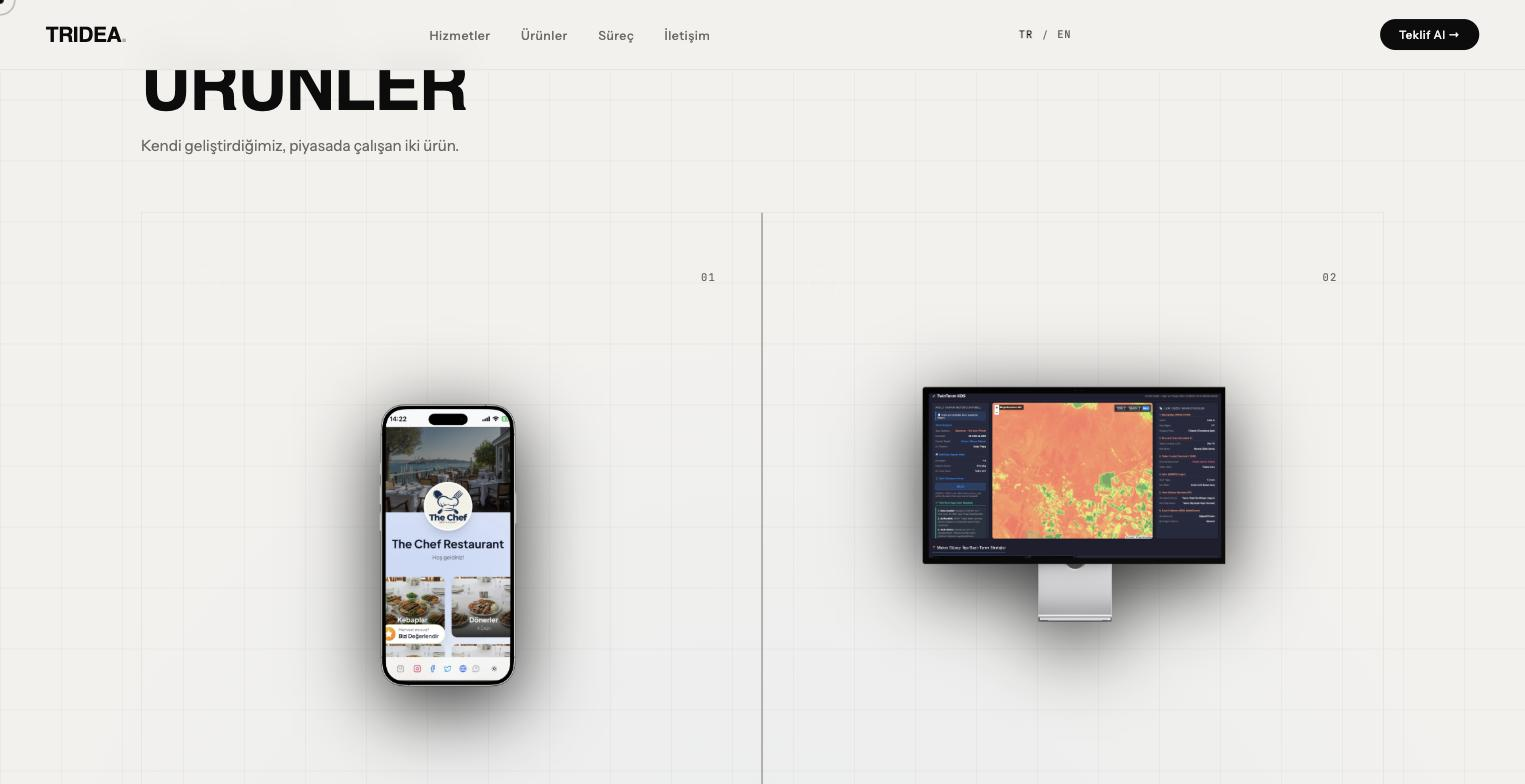
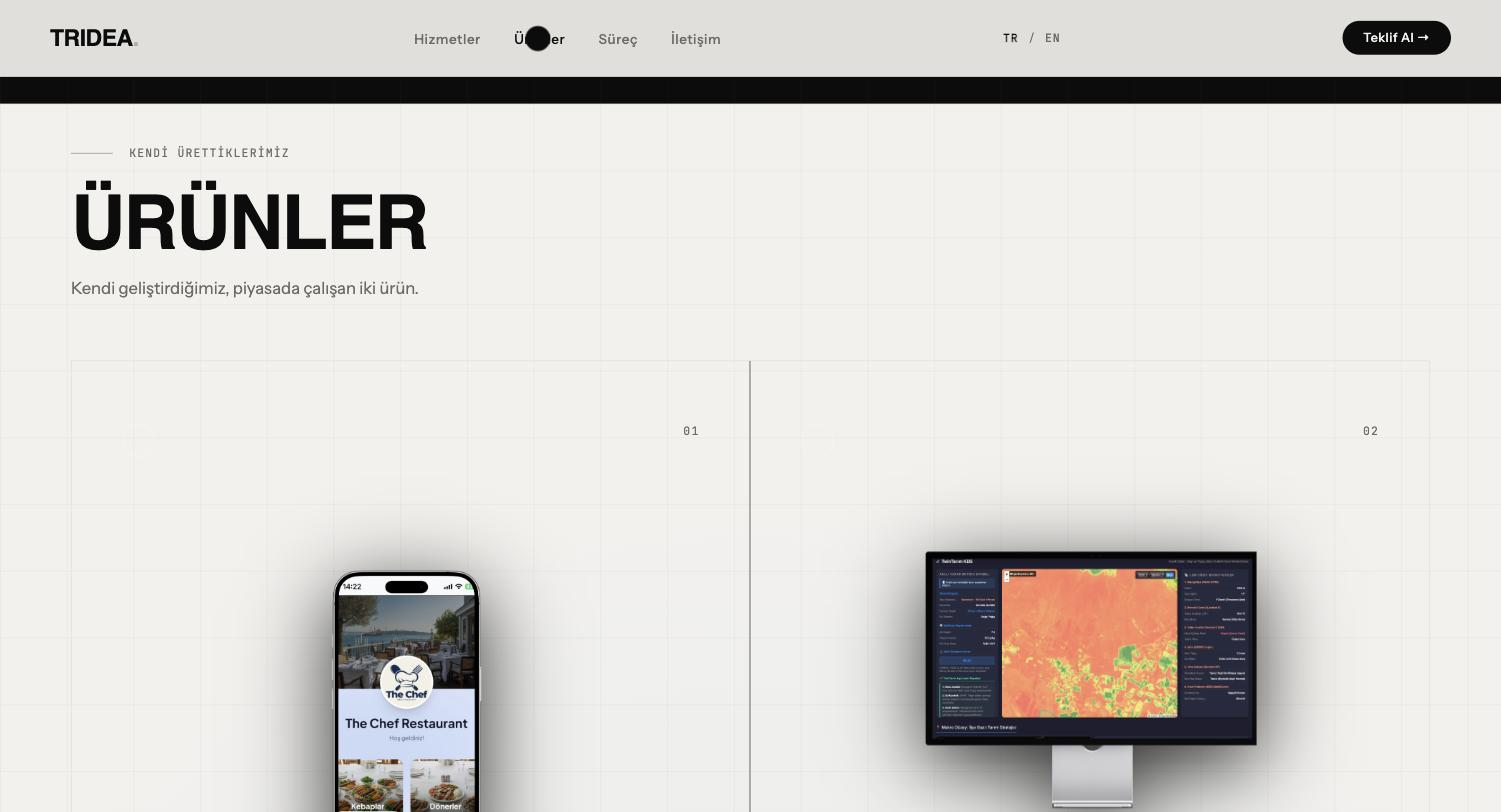
docs: improve README screenshots with full unclipped sections

diff --git a/README.md b/README.md
@@ -27,13 +27,15 @@ A single-page, fully **static** site. No framework, build tooling, or backend de
 
 ## Screenshots
 
-| Hero | Services |
+| Hero | Products |
 |---|---|
-| ![Hero section](assets/screenshots/hero.jpg) | ![Services section](assets/screenshots/services.jpg) |
+| ![Hero section](assets/screenshots/hero.jpg) | ![Products section](assets/screenshots/products.jpg) |
 
-| Products | Why Tridea |
+| TrideaBot | Engineering Pipeline |
 |---|---|
-| ![Products section](assets/screenshots/products.jpg) | ![Why Tridea section](assets/screenshots/why-tridea.jpg) |
+| ![TrideaBot section](assets/screenshots/tridea-bot.jpg) | ![Pipeline section](assets/screenshots/pipeline.jpg) |
+
+![Contact section](assets/screenshots/contact.jpg)
 
 ## Tech Stack
 
@@ -54,7 +56,8 @@ tridea/
 ├── js/
 │   └── main.js           i18n, animations, sticky-scroll, TrideaBot, form
 └── assets/
-    └── images/            Product images (EduQR, TwinTarım mockups/backgrounds)
+    ├── images/            Product images (EduQR, TwinTarım mockups/backgrounds)
+    └── screenshots/        README preview screenshots
 ```
 
 ## Running Locally